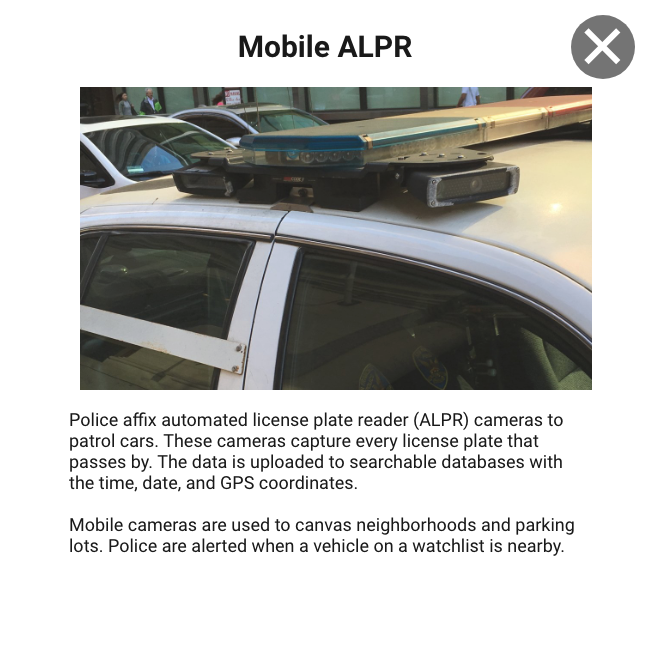
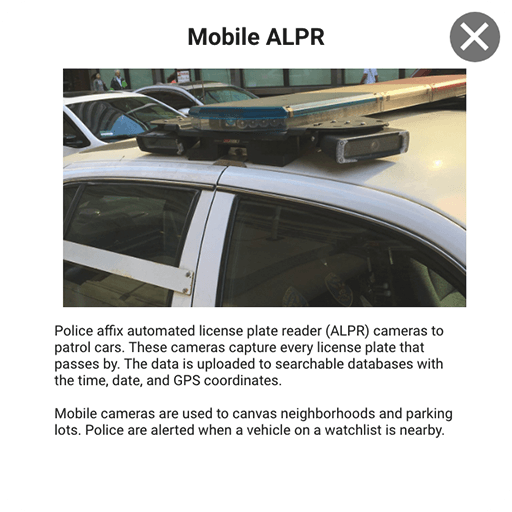
reduces image sizes and fixes power of 2 warnings

Changed region(s): [[0.0938, 0.625, 0.875, 0.75], [0.125, 0.7812, 0.875, 0.8438], [0.1875, 0.25, 0.2188, 0.2812]]

diff --git a/index.html b/index.html
@@ -27,7 +27,7 @@
         <img id="alpr-mobile-card"  src="assets/images/alpr-mobile-card.png">
         <img id="biometric-card" src="assets/images/biometric-card.png">
         <img id="bodycam-card" src="assets/images/bodycam-card.png">
-        <img id="counter-bg" src="assets/images/resized-binoculars-power-of-2.png">
+        <img id="counter-bg" src="assets/images/binoculars.png">
         <img id="camera1-card" src="assets/images/camera1-card.png">
         <img id="camera2-card" src="assets/images/camera2-card.png">
         <img id="congrats-card" src="assets/images/congrats-card-replay.png">
